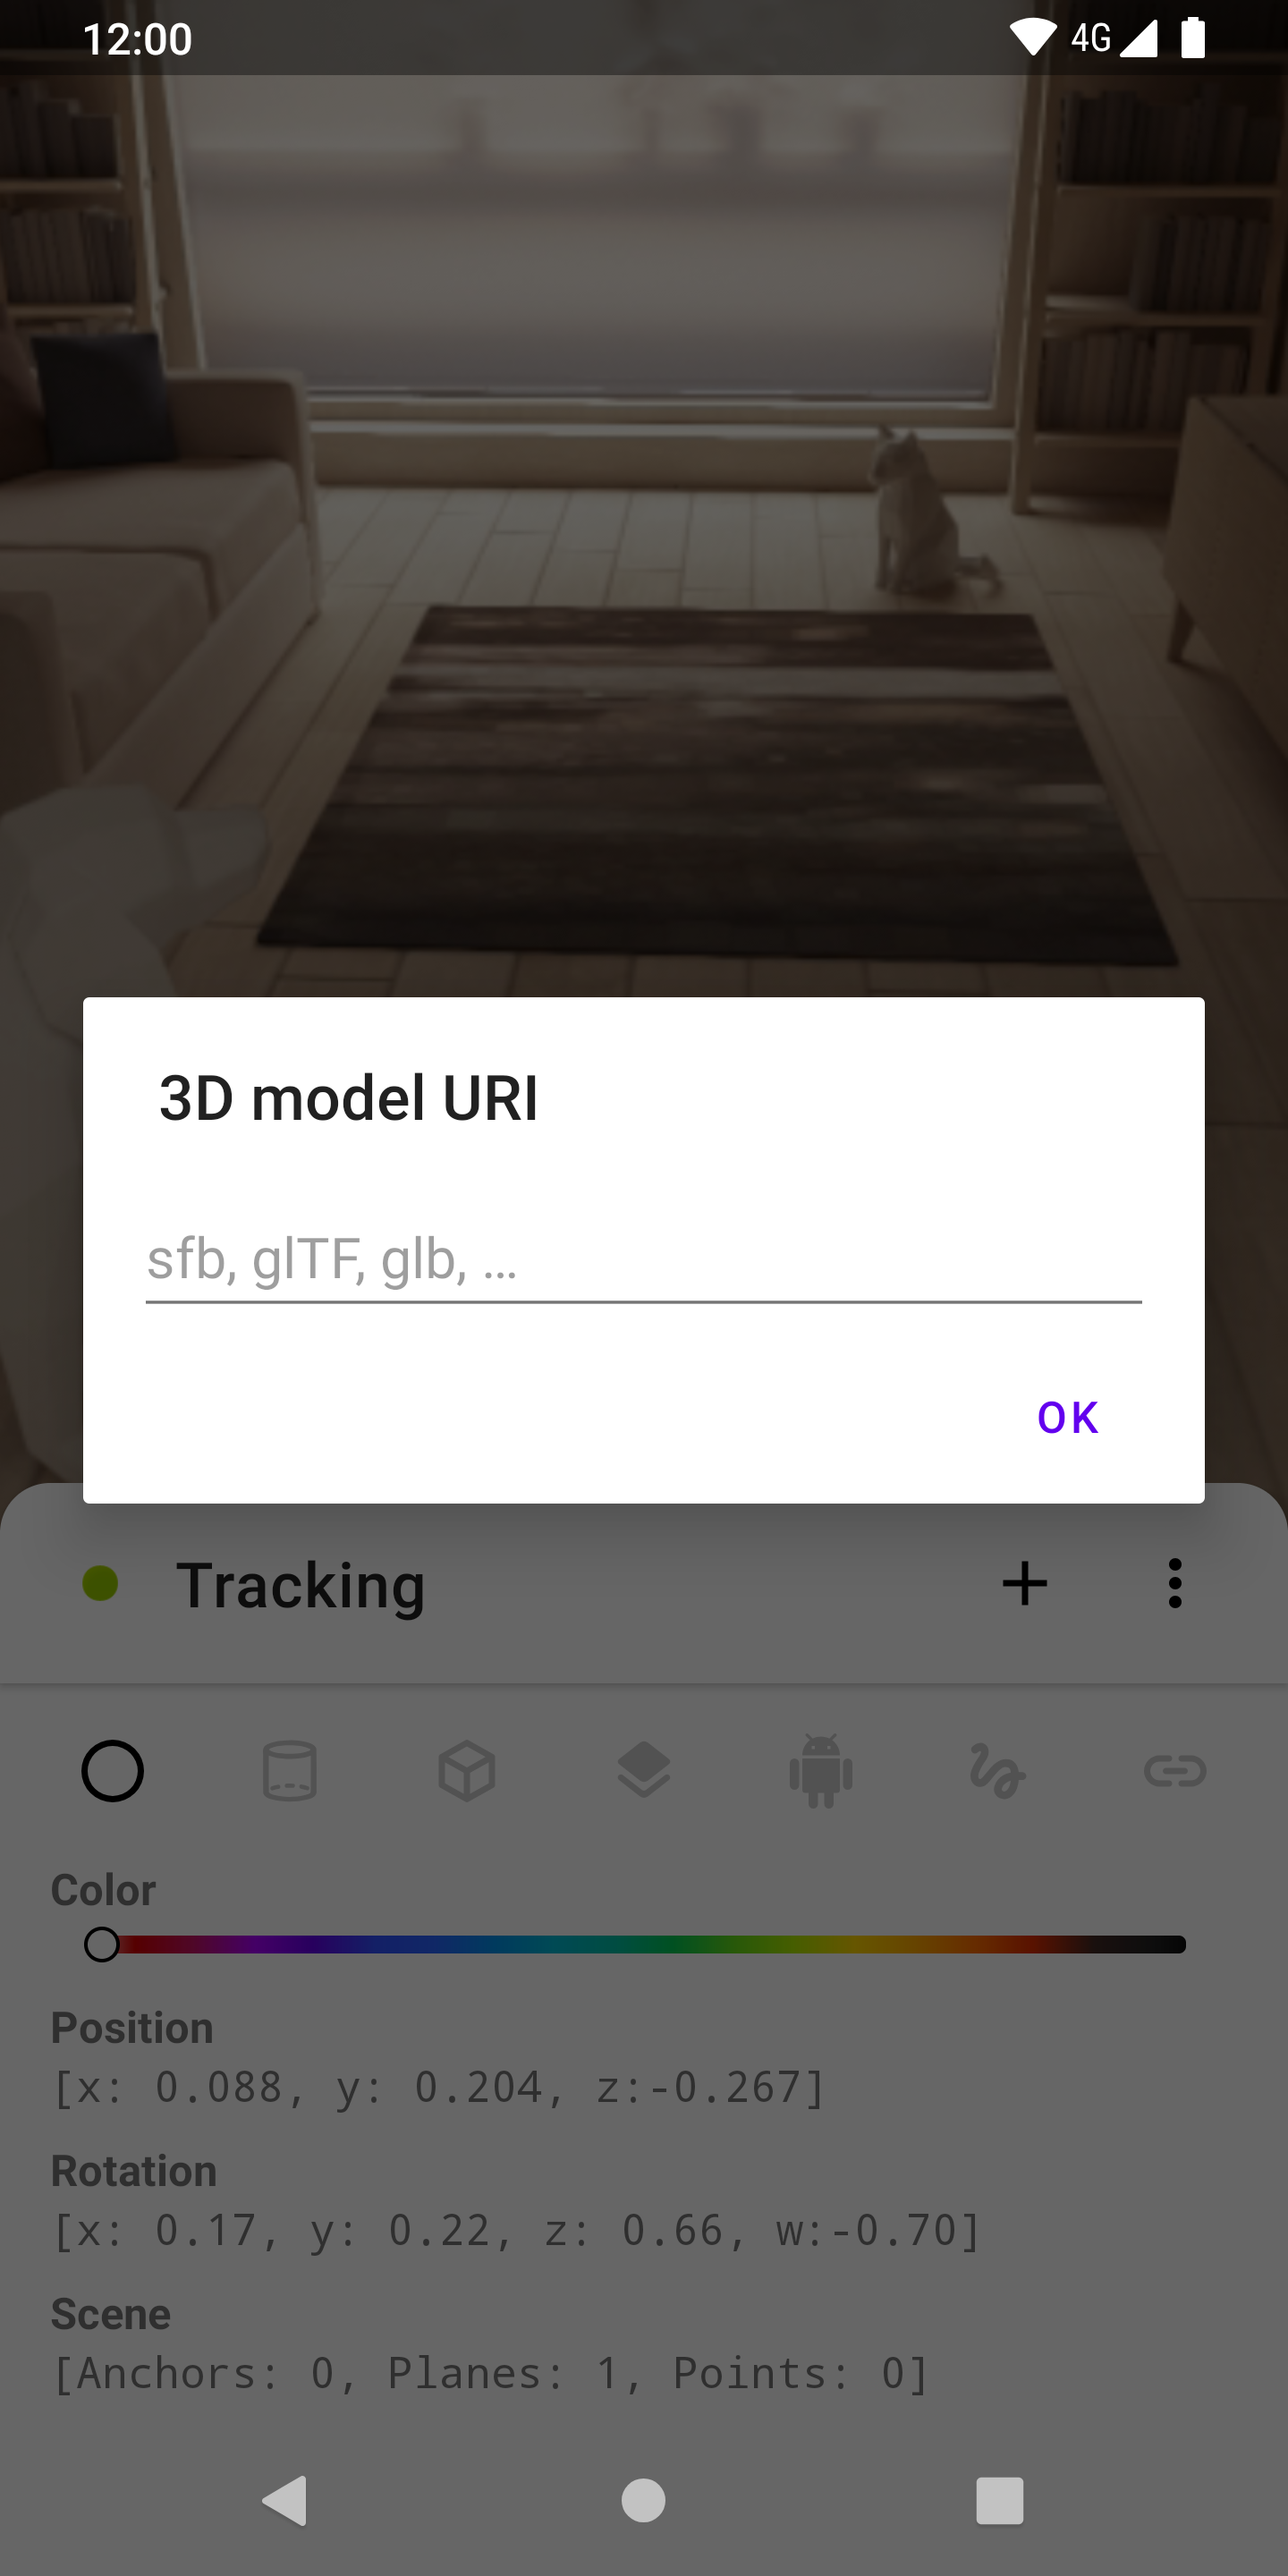
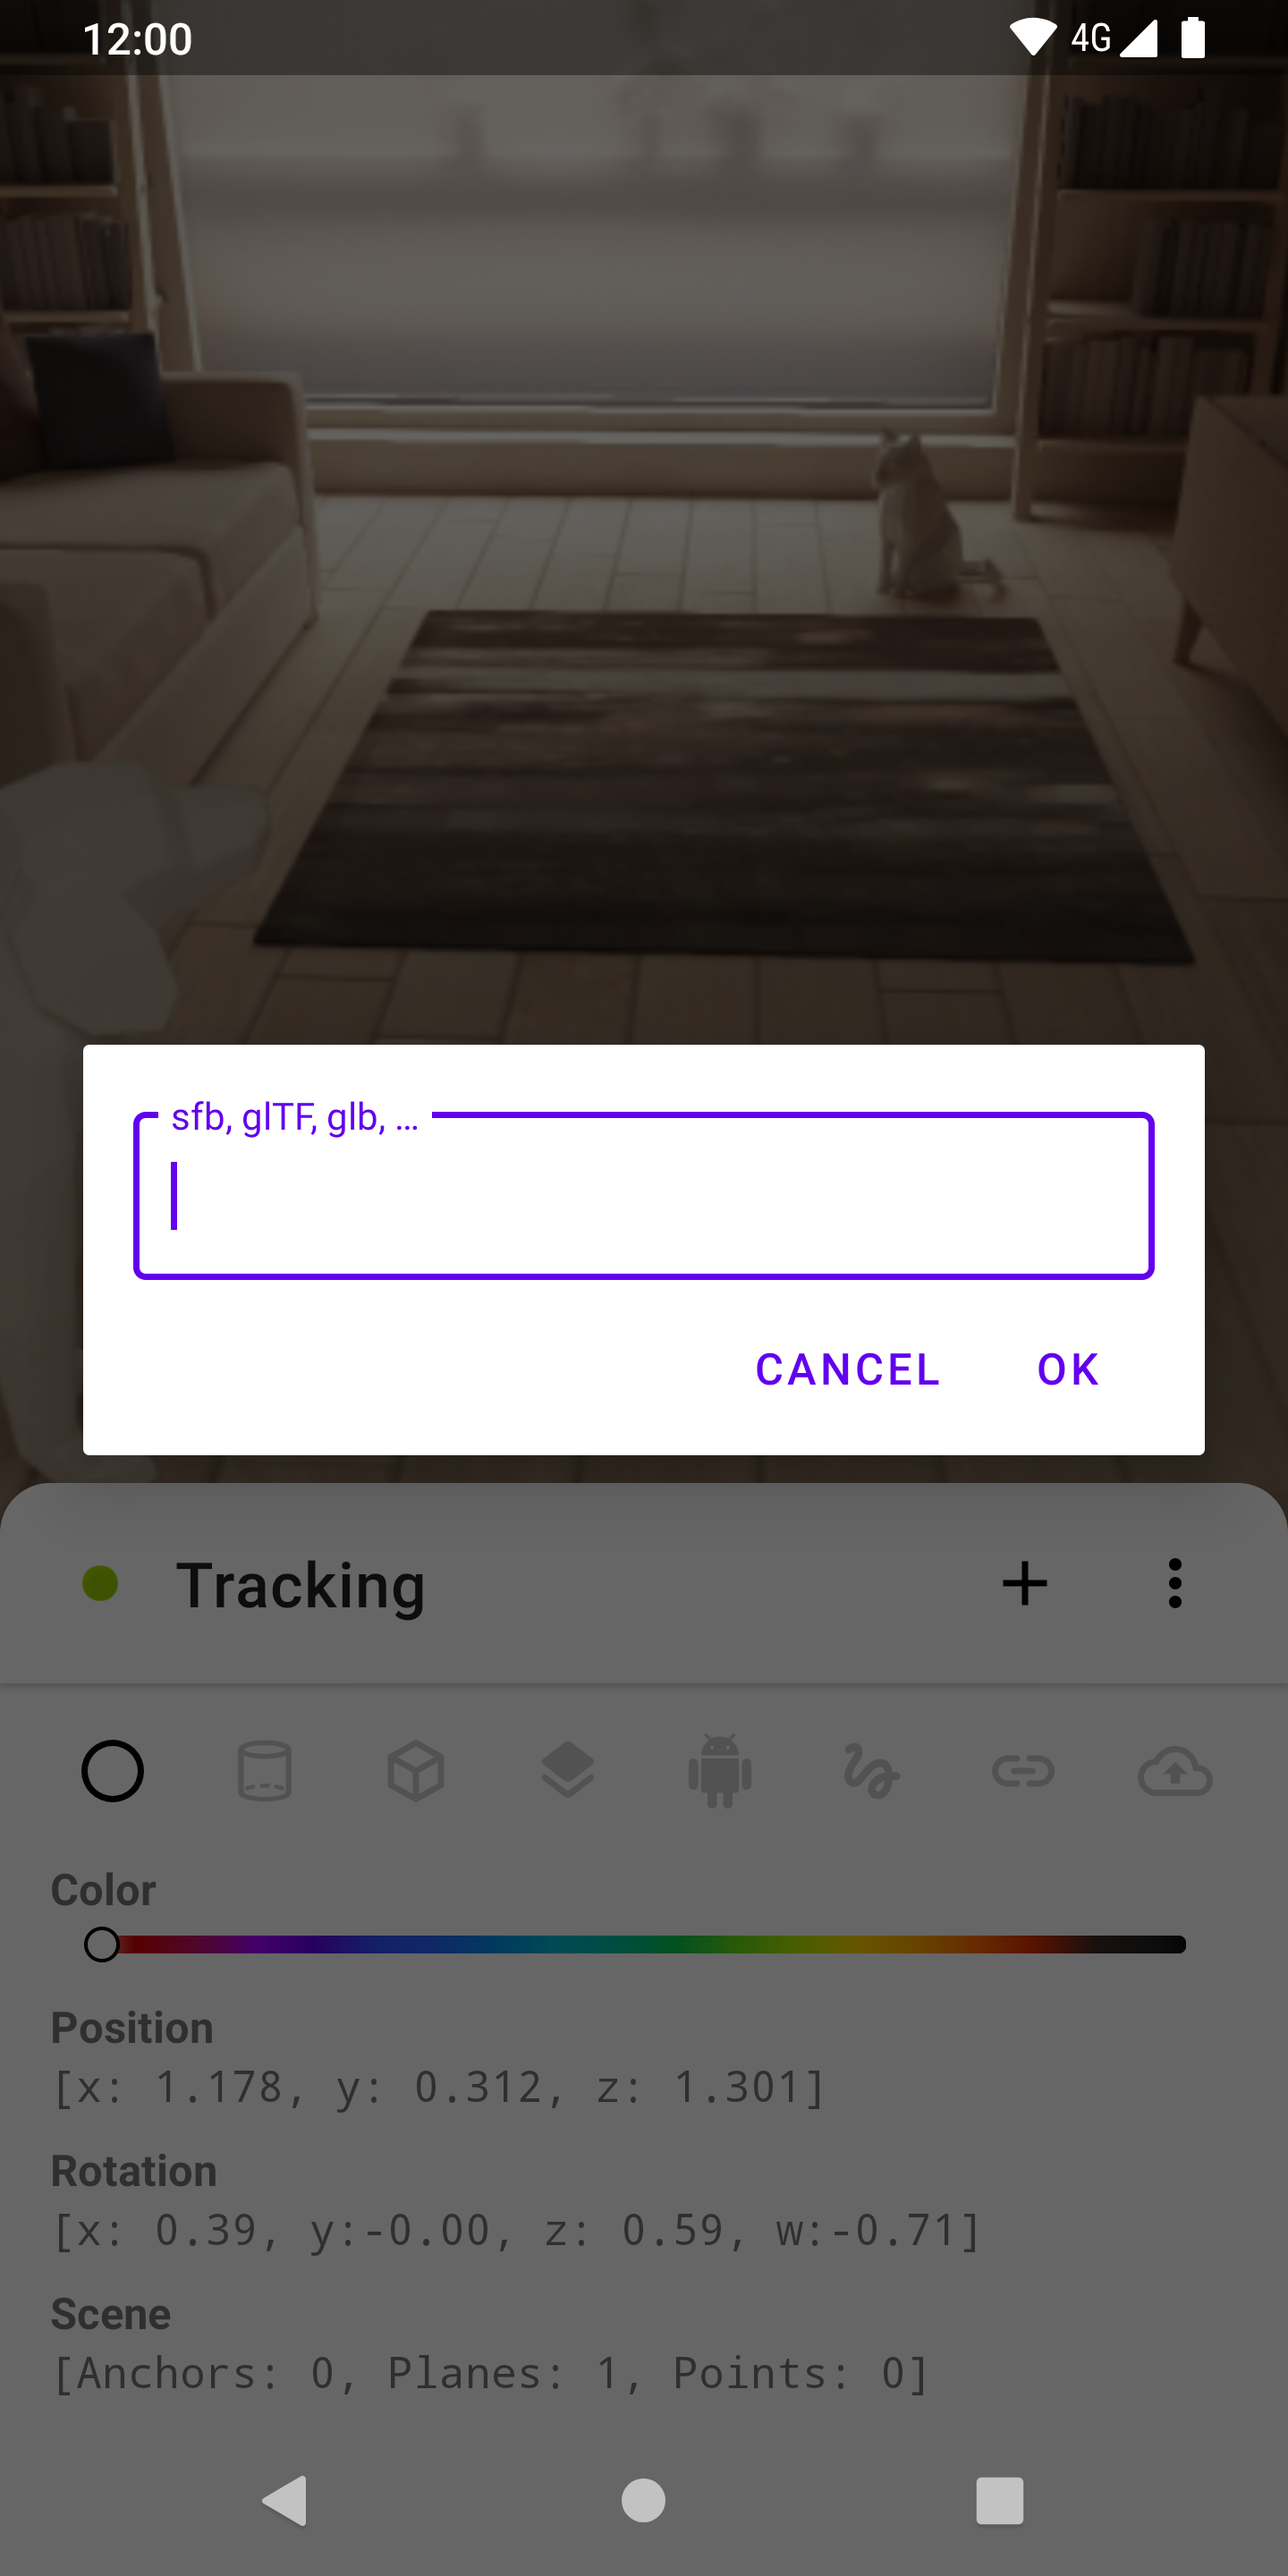
Update CHANGELOG.md, README.md and screenshots

diff --git a/README.md b/README.md
@@ -22,6 +22,7 @@
 - **[Material properties](https://developers.google.com/ar/develop/java/sceneform/standard_properties.pdf)**: Color, Metallic, Roughness, Reflectance
 - **[Gestures](https://developers.google.com/ar/develop/java/sceneform/build-scene)**: Drag, Rotate, Scale
 - **[Augmented images](https://developers.google.com/ar/develop/java/augmented-images/)**: Tracks the application logo
+- **[Cloud anchors](https://developers.google.com/ar/develop/java/cloud-anchors/overview-android)**: Host, share and resolve anchors
 - **[Screen capture & recording](https://developers.google.com/ar/develop/java/sceneform/video-recording)**: 480p, 720p, 1080p, 2160p
 
 ## Credits

diff --git a/CHANGELOG.md b/CHANGELOG.md
@@ -17,6 +17,8 @@
 ## 1.4.0
 > 2019.07.28
 
+- ☁ Cloud anchors
+
 ## 1.3.0
 > 2019.07.17
 
